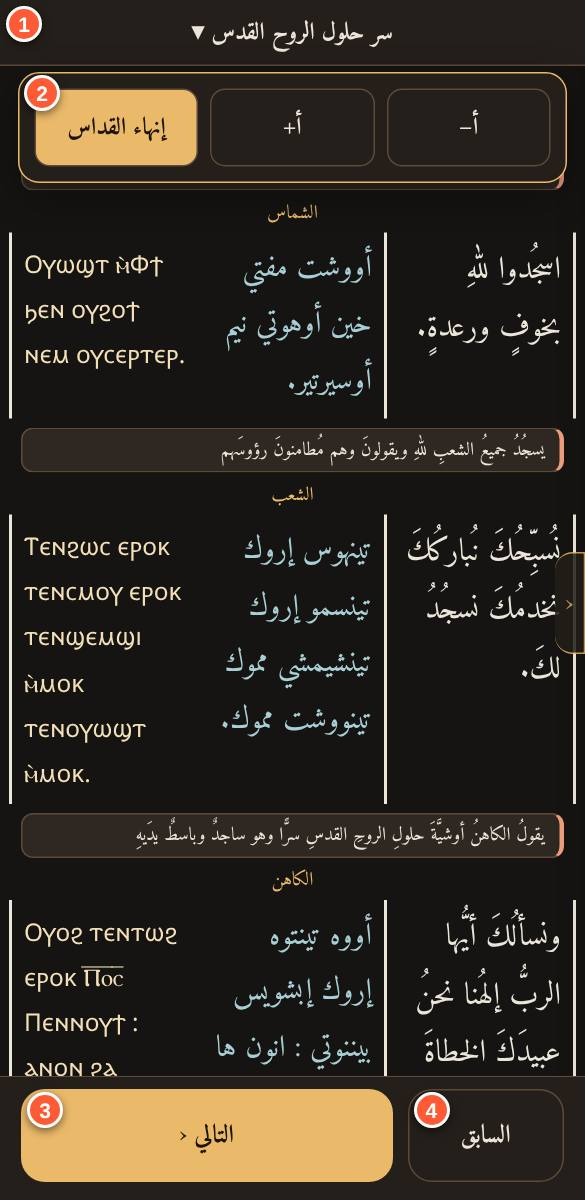
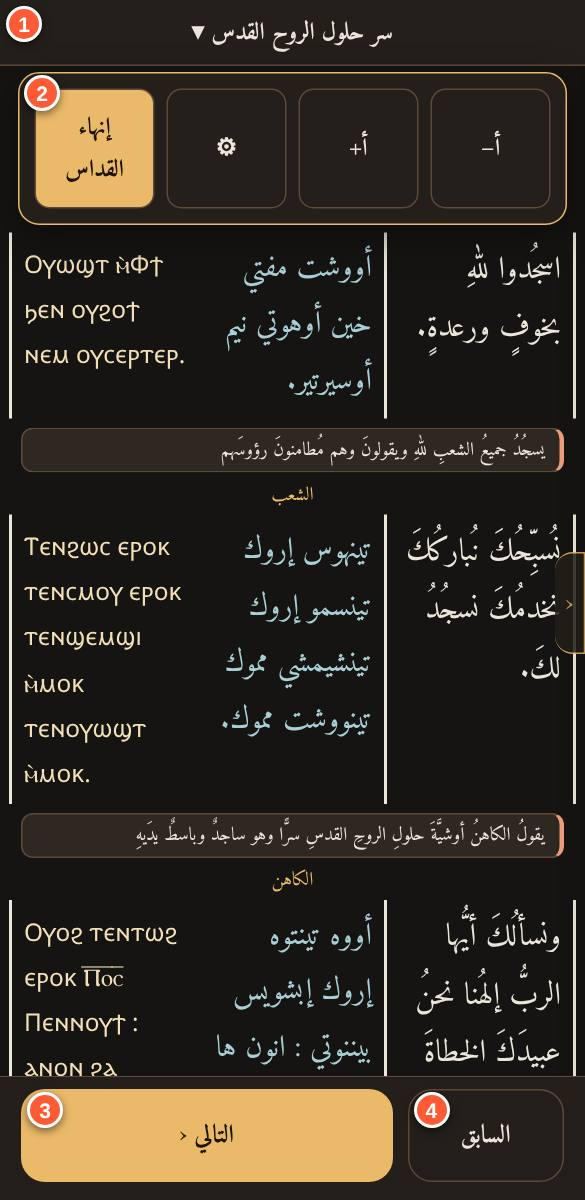
Settings reachable everywhere: floating menu button after scrolling, and a gear in deacon-mode panel; guide updated; sw r122
Claude-Session: https://claude.ai/code/session_01TxsQH8W41ZBNhnMhe9bVaK

Changed region(s): [[0.0308, 0.0617, 0.9846, 0.2158]]

diff --git a/index.html b/index.html
@@ -652,6 +652,7 @@ html[data-pg="h"]:not(.sheet-open) #dxfab,html[data-pg="h"]:not(.sheet-open) #qf
 .pdm.lg{display:grid;grid-template-columns:repeat(6,1fr);gap:4px;padding:8px}.pdm .lt{height:32px;border-radius:8px;border:1px solid var(--line);color:var(--ink)}.pdm .lt.cur{background:var(--acc);color:var(--onacc,#fff);font-weight:700;border-color:var(--acc)}
 .pdm .o{display:block;width:100%;padding:7px 10px;border-radius:8px;text-align:start;color:var(--ink);line-height:1.4}.pdm .o small{display:block;font-size:.72rem;opacity:.7}.pdm .o.cur{background:var(--acc);color:var(--onacc,#fff);font-weight:700}
 .ddres{display:flex;align-items:center;gap:8px;margin:4px 14px 12px;padding:10px 12px;border-radius:14px;border:1px solid var(--line);background:var(--card)}.ddres .t{flex:1;min-width:0;font-family:var(--fa,serif);font-size:1.05rem;line-height:1.5}.ddres .t small{display:block;font-family:var(--fu,inherit);font-size:.75rem;opacity:.75}.ddres .go{flex:none;padding:8px 14px;border-radius:999px;background:var(--acc);color:var(--onacc,#fff);font-weight:700}
+#sfab{position:fixed;top:calc(10px + env(safe-area-inset-top,0px));inset-inline-end:12px;z-index:45;width:42px;height:42px;border-radius:50%;border:1.5px solid var(--acc);background:color-mix(in srgb,var(--card) 88%,transparent);backdrop-filter:blur(8px);color:var(--ink);font-size:1.3rem;display:grid;place-items:center;box-shadow:0 3px 12px rgba(0,0,0,.35)}#sfab[hidden]{display:none!important}
 .dxs.multi{flex-direction:column;align-items:stretch;gap:8px}.dxs .vs{display:flex;flex-wrap:wrap;gap:6px}
 .dxs .vs button{padding:5px 12px;border:1.5px solid var(--lk,var(--acc));border-radius:999px;color:var(--lk,var(--acc));font-size:.88rem}
 .soon{opacity:.55}
@@ -1149,7 +1150,7 @@ function postView(){
 function dmBar(){var id=(location.hash.match(/^#\/s\/([^?]+)/)||[])[1],b=document.getElementById("dmbar"),p=document.getElementById("dmpanel");
   var nv0=document.getElementById("dmnav");
   if(!DM||!id||!BYID[id]){if(b)b.hidden=true;if(p)p.hidden=true;if(nv0)nv0.hidden=true;return}
-  if(!b){b=document.createElement("div");b.id="dmbar";document.body.appendChild(b);p=document.createElement("div");p.id="dmpanel";p.hidden=true;var nv=document.createElement("div");nv.id="dmnav";nv.innerHTML='<button class="pv" data-dm="prev">السابق</button><button class="nx" data-dm="next">التالي ‹</button>';document.body.appendChild(nv);p.innerHTML='<button data-dm="qfs" data-v="-2">أ−</button><button data-dm="qfs" data-v="2">أ+</button><button data-dm="end">إنهاء القداس</button>';document.body.appendChild(p)}
+  if(!b){b=document.createElement("div");b.id="dmbar";document.body.appendChild(b);p=document.createElement("div");p.id="dmpanel";p.hidden=true;var nv=document.createElement("div");nv.id="dmnav";nv.innerHTML='<button class="pv" data-dm="prev">السابق</button><button class="nx" data-dm="next">التالي ‹</button>';document.body.appendChild(nv);p.innerHTML='<button data-dm="qfs" data-v="-2">أ−</button><button data-dm="qfs" data-v="2">أ+</button><button data-dm="settings">⚙</button><button data-dm="end">إنهاء القداس</button>';document.body.appendChild(p)}
   document.getElementById("dmnav").hidden=false;b.hidden=false;b.innerHTML='<button class="dmt" data-dm="panel">'+esc(shortN(BYID[id].title,30))+' ▾</button>'}
 function home(){
   ctl(false);document.title="الخولاجي المقدس";
@@ -1273,13 +1274,17 @@ window.addEventListener("hashchange",route);
     if(!root.classList.contains("sheet-open")){if(dy>60)open(true)}else if(dy<-70&&sh&&sh.scrollTop<=2)open(false)},{passive:true});
   document.body.addEventListener("click",function(e){var b=e.target.closest("[data-sheet]");if(b)open(b.getAttribute("data-sheet")==="open")})})();
 document.addEventListener("change",function(e){if(e.target&&e.target.id==="startsel"){S.startPage=e.target.value;save();toast("تم الحفظ")}});
+(function(){var b=document.createElement("button");b.id="sfab";b.hidden=true;b.setAttribute("aria-label","الإعدادات");b.textContent="☰";document.body.appendChild(b);
+  function upd(){var pg=document.documentElement.getAttribute("data-pg");b.hidden=!(window.scrollY>60&&pg!=="r"&&pg!=="h"&&!(typeof DM!=="undefined"&&DM))}
+  window.addEventListener("scroll",upd,{passive:true});window.addEventListener("hashchange",function(){setTimeout(upd,50)});window.__sfabUpd=upd})();
 document.body.addEventListener("click",function(e){
+  if(e.target.closest("#sfab")){settings();return}
   var mns=e.target.closest("[data-mnsave]");if(mns){var q2=mns.getAttribute("data-mnsave").split("|"),all=mnGet(),val=mns.getAttribute("data-del")?"":document.getElementById("mnt").value.trim();all[q2[0]]=all[q2[0]]||{};if(val)all[q2[0]][q2[1]]=val;else delete all[q2[0]][q2[1]];mnSet(all);close();reader(CUR.id,undefined,CUR.u);return}
   var dm=e.target.closest("[data-dxm]");if(dm){var id9=document.getElementById("dxfab").getAttribute("data-dxadd"),d9=dxd();if(!id9){d9.cur=dm.getAttribute("data-dxm");dxw(d9);dxMenu("");return}d9.lists.forEach(function(l){if(l.id===dm.getAttribute("data-dxm")){var k9=l.items.indexOf(id9);if(k9>=0)l.items.splice(k9,1);else l.items.push(id9)}});dxw(d9);dxFab();return}
   if(e.target.closest("[data-dxm-open]")){var m0=document.getElementById("dxmenu");if(m0)m0.hidden=true;location.hash="#/dxlist";return}
   var f=e.target.closest("#dxfab");if(f){var mm=document.getElementById("dxmenu");if(mm&&!mm.hidden){mm.hidden=true}else dxMenu(f.getAttribute("data-dxadd"));return}
   var mo=document.getElementById("dxmenu");if(mo&&!mo.hidden&&!e.target.closest("#dxmenu"))mo.hidden=true;
-  var dd=e.target.closest("[data-dm]");if(dd){var k=dd.getAttribute("data-dm"),pp=document.getElementById("dmpanel");if(k==="panel"){pp.hidden=!pp.hidden}else if(k==="qfs"){S.fs=Math.max(14,Math.min(40,S.fs+parseInt(dd.getAttribute("data-v"),10)));save();apply()}else if(k==="end"){dmEnd()}else if(k==="next"||k==="prev"){var np=stepPos(k==="next"?1:-1,false);if(np)goPos(np);else if(k==="next")toast("هذا آخر ما في القائمة")}return}
+  var dd=e.target.closest("[data-dm]");if(dd){var k=dd.getAttribute("data-dm"),pp=document.getElementById("dmpanel");if(k==="panel"){pp.hidden=!pp.hidden}else if(k==="qfs"){S.fs=Math.max(14,Math.min(40,S.fs+parseInt(dd.getAttribute("data-v"),10)));save();apply()}else if(k==="end"){dmEnd()}else if(k==="settings"){pp.hidden=true;settings()}else if(k==="next"||k==="prev"){var np=stepPos(k==="next"?1:-1,false);if(np)goPos(np);else if(k==="next")toast("هذا آخر ما في القائمة")}return}
   var q=e.target.closest("#qfs button");if(q){S.fs=Math.max(14,Math.min(40,S.fs+parseInt(q.getAttribute("data-qfs"),10)));save();apply()}});
 app.addEventListener("change",function(e){var d=e.target.getAttribute&&e.target.getAttribute("data-dd");if(!d)return;var g=e.target.getAttribute("data-g");
   if(d==="let"){LET[g]=e.target.value;SAINT[g]="";VAR[g]=""}else if(d==="saint"){SAINT[g]=e.target.value;VAR[g]=""}else VAR[g]=e.target.value;groupView(g)});

diff --git a/tools/make-guide.js b/tools/make-guide.js
@@ -39,7 +39,8 @@ const SPECS=[
 {id:'notes',title:'تأملي الشخصي',hash:'#/s/bas-hulul',setup:async p=>{await open(p,'.mnb')},summary:'اكتب تأملك الخاص تحت أي قطعة.',
  marks:[['#mnt','خانة التأمل','اكتب ما تأملته في هذه القطعة.'],['[data-mnsave]','حفظ','يُحفظ على جهازك فقط، ويظهر تحت القطعة وفي «تأملاتي» داخل المكتبة.']]},
 {id:'settings',title:'الإعدادات',hash:'#/',h:900,setup:async p=>{await open(p,'#btnSet');await open(p,'[data-stg="start"]')},summary:'كل قوائم الإعدادات مقفولة افتراضيا، وتفتح بالضغط على عنوانها.',
- marks:[['[data-stg="look"]','المظهر والخط','وضع الشاشة (تلقائي، فاتح، غامق) مع ثيمات مستقلة لكل وضع، ونوع الخط وحجمه.'],['[data-stg="start"]','بداية التطبيق','تفتح على الرئيسية، أو آخر صفحة، أو صفحة تختارها.'],['[data-stg="lay"]','التخطيط والكثافة','شكل الصفحات وكثافة العرض.'],['[data-stg="read"]','القراءة والدراسة','تشغيل وإيقاف: الإرشادات، التأملات، رحلة المسيح، التنقل بالسحب وغيرها.'],['[data-stg="bk"]','النسخة الاحتياطية','تصدير واسترجاع قوائمك وإعداداتك وتأملاتك.']]}
+ marks:[['[data-stg="look"]','المظهر والخط','وضع الشاشة (تلقائي، فاتح، غامق) مع ثيمات مستقلة لكل وضع، ونوع الخط وحجمه.'],['[data-stg="start"]','بداية التطبيق','تفتح على الرئيسية، أو آخر صفحة، أو صفحة تختارها.'],['[data-stg="lay"]','التخطيط والكثافة','شكل الصفحات وكثافة العرض.'],['[data-stg="read"]','القراءة والدراسة','تشغيل وإيقاف: الإرشادات، التأملات، رحلة المسيح، التنقل بالسحب وغيرها.'],['[data-stg="bk"]','النسخة الاحتياطية','تصدير واسترجاع قوائمك وإعداداتك وتأملاتك.']],
+ nav:'للوصول للإعدادات: زر ☰ أعلى الشاشة. في الصفحات الطويلة، بعد ما تمرّر لتحت يظهر زر ☰ عائم أعلى الشاشة. وفي وضع الشماس: اضغط اسم القسم ثم ⚙.'}
 ];
 (async()=>{const b=await chromium.launch();const pages=[];
 for(const sp of SPECS){

diff --git a/sw.js b/sw.js
@@ -1,4 +1,4 @@
-const CACHE_NAME='khulagi-v1.5-shell-r121';
+const CACHE_NAME='khulagi-v1.5-shell-r122';
 const FILES=['./','index.html','guide-news.js','guide-pages.js','guide/deacon.jpg','guide/doxologies.jpg','guide/library.jpg','guide/lists.jpg','guide/lit.jpg','guide/notes.jpg','guide/post.jpg','guide/pre.jpg','guide/reader.jpg','guide/settings.jpg','guide/splash.jpg','guide/story.jpg','guide/today.jpg','reemkufi-arabic-700-normal.woff2','dawn.jpg','data.js','study.js','swipe.js','live.js','story.js','study-data.js','data-bible.js','content-raf.txt','content-bas.txt','content-greg.txt','content-cyr.txt','content-qisam.txt','content-misc.txt','content-bless.txt','content-app.txt','content-taqs.txt','content-dox.txt','manifest.webmanifest','icon-192.png','icon-512.png','amiri-arabic-400-normal.woff2','amiri-arabic-700-normal.woff2','amiri-latin-400-normal.woff2','tajawal-arabic-400.woff2','tajawal-latin-400.woff2','tajawal-arabic-700.woff2','tajawal-latin-700.woff2','cairo-arabic-400-normal.woff2','cairo-arabic-700-normal.woff2','el-messiri-arabic-400-normal.woff2','el-messiri-arabic-700-normal.woff2','lateef-arabic-400-normal.woff2','lateef-arabic-700-normal.woff2','markazi-text-arabic-400-normal.woff2','markazi-text-arabic-700-normal.woff2','noto-naskh-arabic-arabic-400-normal.woff2','noto-naskh-arabic-arabic-700-normal.woff2','reem-kufi-arabic-400-normal.woff2','reem-kufi-arabic-700-normal.woff2','scheherazade-new-arabic-400-normal.woff2','scheherazade-new-arabic-700-normal.woff2','amiri-latin-700-normal.woff2','noto-sans-coptic-coptic-400-normal.woff2','noto-sans-coptic-latin-400-normal.woff2'];
 self.addEventListener('install',e=>{e.waitUntil(caches.open(CACHE_NAME).then(c=>Promise.all(FILES.map(f=>c.add(new Request(f,{cache:'reload'})).catch(()=>{})))).then(()=>self.skipWaiting()))});
 self.addEventListener('activate',e=>{e.waitUntil(caches.keys().then(k=>Promise.all(k.filter(x=>x!==CACHE_NAME).map(x=>caches.delete(x)))).then(()=>self.clients.claim()))});

diff --git a/guide-news.js b/guide-news.js
@@ -1,6 +1,7 @@
 /* سجل الميزات الجديدة (الأحدث أولا). كل ميزة جديدة تُضاف هنا كمدخل جديد في أعلى القائمة،
    ثم تُحدَّث مواصفة الصفحة المتأثرة في tools/make-guide.js وتُعاد اللقطات (node tools/make-guide.js). */
 window.KG_NEWS=[
+{v:"r122",t:"الوصول للإعدادات من أي مكان",x:"بعد التمرير في الصفحات الطويلة يظهر زر ☰ عائم أعلى الشاشة يفتح الإعدادات. وفي وضع الشماس اضغط اسم القسم ثم ⚙."},
 {v:"r121",t:"اختيار الذكصولوجيات بثلاث قوائم",x:"في المكتبة ثم الذكصولوجيات: قوائم صغيرة مرتبة (الحرف ثم القديس ثم الذكصولوجية). لو للقديس أكثر من ذكصولوجية تظهر مرقّمة مع أول ٣ كلمات منها، وبعد الاختيار بطاقة فيها ＋ وفتح."},
 {v:"r118",t:"بداية التطبيق",x:"في الإعدادات ثم «بداية التطبيق» تختار: الصفحة الرئيسية، أو آخر صفحة فتحتها، أو صفحة تحددها أنت. الافتراضي الرئيسية."},
 {v:"r114",t:"دايرة ＋ للقوائم",x:"داخل القراءة: دايرة ＋ صغيرة تفتح قائمة بقوائمك وتضيف أو تزيل القسم من أي قائمة. تظهر جوه المحتوى المفتوح فقط، ومعها أ+ و أ−."},

diff --git a/guide-pages.js b/guide-pages.js
@@ -430,6 +430,6 @@ window.KG_PAGES=[
     "تصدير واسترجاع قوائمك وإعداداتك وتأملاتك."
    ]
   ],
-  "nav": ""
+  "nav": "للوصول للإعدادات: زر ☰ أعلى الشاشة. في الصفحات الطويلة، بعد ما تمرّر لتحت يظهر زر ☰ عائم أعلى الشاشة. وفي وضع الشماس: اضغط اسم القسم ثم ⚙."
  }
 ];
